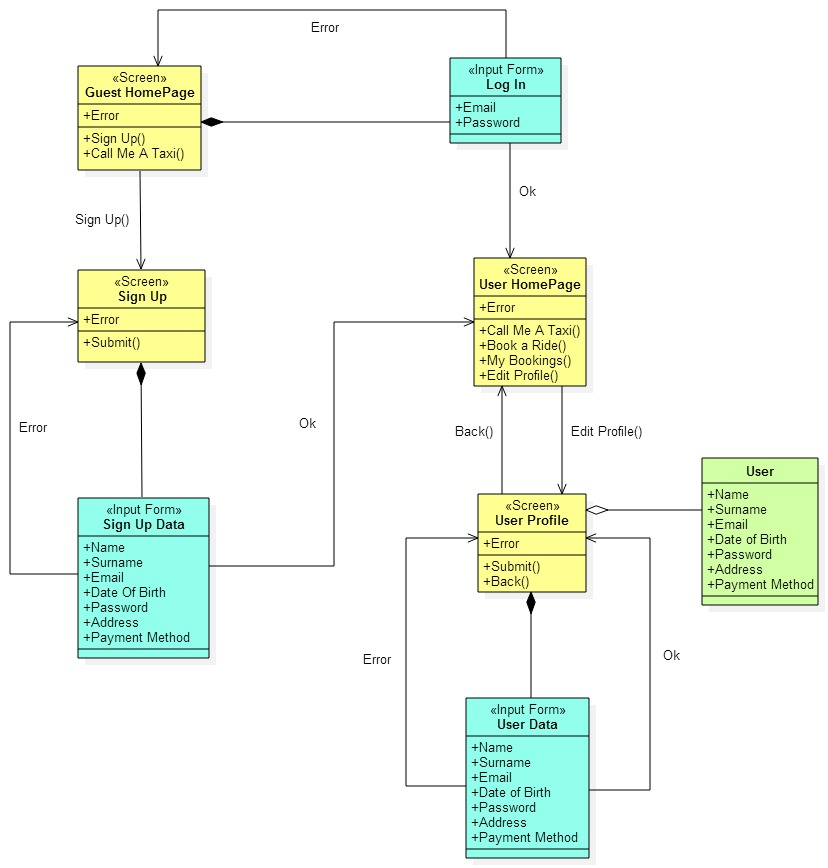
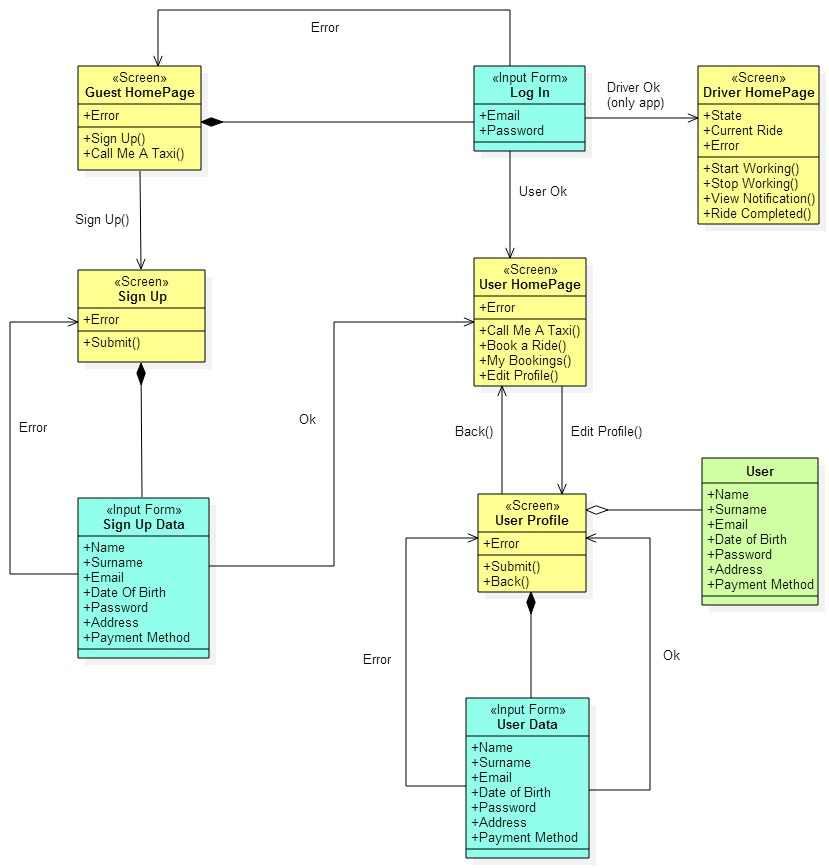
DD - modified UXProfile and started UX section

diff --git a/Documentation/DD/UX.tex b/Documentation/DD/UX.tex
@@ -1,1 +1,20 @@
 \section{UX - User Experience and Interface Design}
+
+This Section describes the User Experience, meaning all the webpages that a customer will be able to reach and all the functionalities he will have access to.
+\newline
+We used a Class Diagram with three stereotypes:
+\begin {itemize}
+\item \textbf{Screen:} represents regular webpages, like the HomePages.
+\item \textbf{Input Form:} represents input fields, like the standard email-password form used to log in.
+\item \textbf{Regular Classes $($no stereotype$)$:} represents the Classes that are present in the regular Class Diagram.
+\end {itemize} 
+
+
+
+
+We divided our UX Diagram in three parts, in order to better highlight the connections between specified pages which have related fuctionalities.
+
+\subsection{Log In and data editing}
+As shown in the diagram below, when someone opens either the website or the app he gets to the Guest's HomePage. Here he can call a taxi with the Instant Call function or fill the Input Form to Log In, in order to have access to the User's functions. Also a Guest that hasn't registered before can click on the Sign Up button that will take him to the dedicated webpage, where he can fill the fields and perform the registration.\newline
+Taxi Drivers $($only via app$)$ can perform their special Log In to get to the Driver's special HomePage. \newline
+Users can also modify their data getting into the User Profile webpage and modifying an Input Form similar to the Sign Up one.
